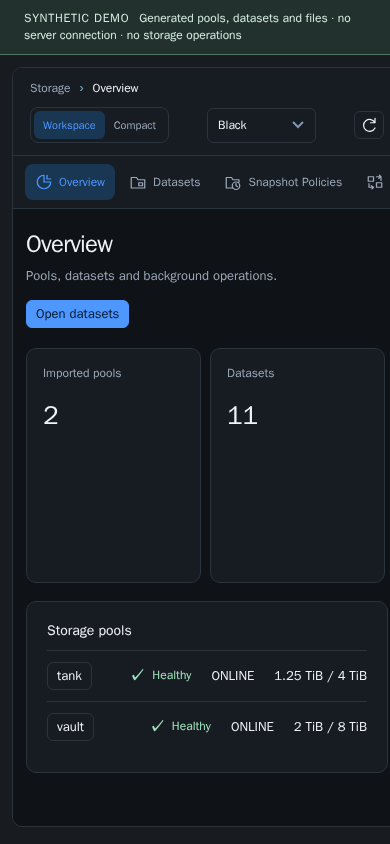
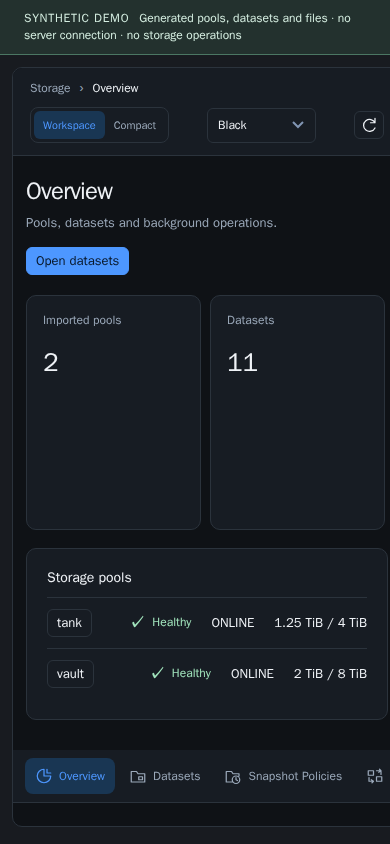
feat: fixed-height plugin frame, grouped dataset information, live resize

diff --git a/src/frontend/ZFSMWorkspace.js b/src/frontend/ZFSMWorkspace.js
@@ -6,6 +6,12 @@ function zfsmCreateWorkspace(options) {
     if(!root)throw new Error('ZFS workspace root is missing');
     const preferenceKey='zfsm-workspace-preferences-v1',cacheKey='zfsm-workspace-inventory-v1';
     const controllers=new Set();
+    // Fixed-height frame: the workspace fills the viewport below its own top edge, so the page itself
+    // does not scroll; each screen scrolls in exactly one place inside the frame.
+    root.dataset.frame='fixed';
+    const sizeFrame=()=>{const style=getComputedStyle(root);root.dataset.wide=String(root.clientWidth-parseFloat(style.paddingLeft||0)-parseFloat(style.paddingRight||0)>850);const top=root.getBoundingClientRect().top+(window.scrollY||0);root.style.setProperty('--zfsm-frame-height',Math.max(520,Math.floor(window.innerHeight-top-32))+'px');};
+    sizeFrame();window.addEventListener('resize',sizeFrame);window.addEventListener('load',sizeFrame);
+    const frameObserver=typeof ResizeObserver==='function'?new ResizeObserver(sizeFrame):null;frameObserver?.observe(document.documentElement);
     // While a modal dialog is open, wheel and touch gestures outside it must not move the page behind it.
     const modalScrollGuard=event=>{
         const dialog=root.querySelector('dialog[open]');if(!dialog)return;
@@ -311,18 +317,32 @@ function zfsmCreateWorkspace(options) {
             render(properties,'loaded');
         }).catch(error=>{if(current())render(null,'unavailable',error.message);});
     }
+    // Dataset information: one short list at a time, grouped into tabs instead of one tall page.
+    let infoGroup='general';
+    const infoGroups=[['general','General',/^(name|type|guid|creation|mountpoint|mounted|origin|canmount|readonly|pool|parent_name|parent_guid|children|snapshot_count)$/],['space','Space',/^(used|available|referenced|usedby|written|logicalused|logicalreferenced|quota|refquota|reservation|refreservation|compressratio|volsize|recordsize|volblocksize|compression|snapshot_limit|filesystem_limit)/],['encryption','Encryption',/^(encryption|keystatus|keylocation|keyformat|pbkdf|encryptionroot|key)/]];
+    function infoGroupOf(key){for(const [id,,pattern] of infoGroups)if(pattern.test(key))return id;return 'other';}
     function renderDatasetInformation(host,item){
         if(item.kind==='directory')return;
         const error=data.errors&&data.errors[pool];if(error)host.append(node('p',error,'zfsm-error'));
         if(!inventoryFresh)host.append(node('p','Cached inventory is stale. Refresh before acting on current state.','zfsm-notice'));
-        const properties=node('dl',undefined,'zfsm-properties');
         const byteKeys=new Set(['used','available','referenced','usedbysnapshots','quota','recordsize','volblocksize','volsize']);
+        const rows=new Map(infoGroups.map(([id])=>[id,[]]));rows.set('other',[]);
         for(const [key,value] of Object.entries(item.node)){
             if(value!==null&&typeof value==='object')continue;if(['_error','_snapshot_error'].includes(key))continue;
             let text=value===null?'—':String(value);if(key==='creation')text=date(value);else if(key==='compressratio')text=Number(value)/100+'x';else if(byteKeys.has(key))text=key==='quota'&&Number(value)===0?'Unlimited':bytes(value);
-            properties.append(node('dt',key),node('dd',text));
+            rows.get(infoGroupOf(key)).push([key,text]);
         }
-        host.append(node('h3','Dataset information'),properties);
+        const present=[...infoGroups.map(([id,label])=>[id,label]),['other','Other']].filter(([id])=>rows.get(id).length);
+        if(!present.some(([id])=>id===infoGroup))infoGroup=present[0]?.[0]||'general';
+        host.append(node('h3','Dataset information'));
+        const list=node('dl',undefined,'zfsm-properties');
+        const draw=()=>{list.replaceChildren();for(const [key,text] of rows.get(infoGroup)||[])list.append(node('dt',key),node('dd',text));};
+        if(present.length>1){
+            const bar=node('nav',undefined,'zfsm-subtabs');bar.setAttribute('aria-label','Dataset information groups');
+            for(const [id,label] of present){const control=button(label+' · '+rows.get(id).length,()=>{infoGroup=id;for(const other of bar.querySelectorAll('button'))other.setAttribute('aria-pressed',String(other.dataset.group===id));draw();},{'data-group':id,'aria-pressed':String(id===infoGroup)});bar.append(control);}
+            host.append(bar);
+        }
+        draw();host.append(list);
     }
     function renderPoolDevices(host){
         host.append(node('h3','Pool devices'),node('p','Pool: '+pool,'zfsm-muted'));
@@ -657,5 +677,5 @@ function zfsmCreateWorkspace(options) {
     if(Number(config.refresh_interval)===0){const cached=storageRead(cacheKey);if(cached&&cached.data&&cached.data.pools&&cached.data.datasets&&cached.data.devices){data=cached.data;inventoryFresh=false;if(!data.pools[pool])pool=Object.keys(data.pools)[0]||'';if(!selected())selection=pool;selectionIdentity=selectionFingerprint();renderPools();renderSection();}}
     inventory.refresh();
     if(protection)protection.availability().catch(()=>{protectionButton.hidden=true;replicationButton.hidden=true;});
-    return {refresh:()=>inventory.refresh(),stop:()=>{if(stopped)return;stopped=true;window.removeEventListener('wheel',modalScrollGuard,true);window.removeEventListener('touchmove',modalScrollGuard,true);protection?.stop();inventory.stop();clearTimeout(jobsTimer);clearTimeout(diagnosticTimer);invalidateForm();disposeSnapshots();disposeExplorer();themeObserver.disconnect();media.removeEventListener('change',themeListener);for(const controller of controllers)controller.abort();controllers.clear();},getState:()=>({section,tab,pool,selection,layout,theme})};
+    return {refresh:()=>inventory.refresh(),stop:()=>{if(stopped)return;stopped=true;window.removeEventListener('resize',sizeFrame);window.removeEventListener('load',sizeFrame);frameObserver?.disconnect();window.removeEventListener('wheel',modalScrollGuard,true);window.removeEventListener('touchmove',modalScrollGuard,true);protection?.stop();inventory.stop();clearTimeout(jobsTimer);clearTimeout(diagnosticTimer);invalidateForm();disposeSnapshots();disposeExplorer();themeObserver.disconnect();media.removeEventListener('change',themeListener);for(const controller of controllers)controller.abort();controllers.clear();},getState:()=>({section,tab,pool,selection,layout,theme})};
 }

diff --git a/src/frontend/ZFSMWorkspace.css b/src/frontend/ZFSMWorkspace.css
@@ -493,3 +493,32 @@ html:has(#zfsm-workspace dialog[open]), html:has(#zfsm-workspace dialog[open]) b
 #zfsm-workspace .zfsm-checklist-row input {margin-top:3px}
 #zfsm-workspace .zfsm-checklist-missing {border:1px dashed var(--zfsm-border,#444);border-radius:6px;padding:4px 8px}
 #zfsm-workspace .zfsm-checklist-missing p,#zfsm-workspace .zfsm-checklist-empty {margin:4px 0;font-size:12px;opacity:.8}
+
+/* Fixed-height frame (set by the workspace script): the page does not scroll, each screen scrolls in one place. */
+#zfsm-workspace[data-frame="fixed"] {position:relative;height:var(--zfsm-frame-height,auto);overflow:hidden;display:flex;flex-direction:column}
+#zfsm-workspace[data-frame="fixed"]>.zfsm-shell {flex:1 1 auto;min-height:0}
+#zfsm-workspace[data-frame="fixed"] .zfsm-sidebar {overflow-y:auto;overscroll-behavior:contain}
+#zfsm-workspace[data-frame="fixed"] .zfsm-main {display:flex;flex-direction:column;min-height:0}
+#zfsm-workspace[data-frame="fixed"] .zfsm-header {flex:0 0 auto}
+#zfsm-workspace[data-frame="fixed"] .zfsm-main-body {position:relative;flex:1 1 auto;min-height:0;width:100%;overflow:auto;overscroll-behavior:contain}
+#zfsm-workspace[data-frame="fixed"][data-layout="table"] .zfsm-browser {max-height:none;overflow:visible}
+#zfsm-workspace[data-frame="fixed"][data-layout="table"] .zfsm-detail {max-height:none;overflow:visible}
+#zfsm-workspace[data-frame="fixed"]:not([data-wide="true"]) .zfsm-browser {max-height:none;overflow:visible}
+@container(max-width:850px) {
+  #zfsm-workspace[data-frame="fixed"] .zfsm-shell {grid-template-rows:auto auto minmax(0,1fr);min-height:0}
+  #zfsm-workspace[data-frame="fixed"] .zfsm-main-body {min-height:0}
+}
+/* Datasets: the tree and the detail pane scroll on their own, the tab bar and the pane heading stay put. */
+/* Wide layout only: data-wide is set by the workspace script (container queries cannot reach inside .zfsm-detail, itself a container). */
+#zfsm-workspace[data-frame="fixed"][data-wide="true"]:not([data-layout="table"]) .zfsm-main-body:has(>.zfsm-content>.zfsm-workarea) {overflow:hidden;display:flex;flex-direction:column;padding-bottom:18px}
+#zfsm-workspace[data-frame="fixed"][data-wide="true"]:not([data-layout="table"]) .zfsm-content:has(>.zfsm-workarea) {flex:1 1 auto;min-height:0;display:flex;flex-direction:column}
+#zfsm-workspace[data-frame="fixed"][data-wide="true"]:not([data-layout="table"]) .zfsm-content:has(>.zfsm-workarea)>* {flex:0 0 auto}
+#zfsm-workspace[data-frame="fixed"][data-wide="true"]:not([data-layout="table"]) .zfsm-content>.zfsm-workarea {flex:1 1 auto;min-height:0;align-items:stretch}
+#zfsm-workspace[data-frame="fixed"][data-wide="true"]:not([data-layout="table"]) .zfsm-workarea>.zfsm-browser {max-height:none;height:100%;min-height:0;overflow:auto;overscroll-behavior:contain}
+#zfsm-workspace[data-frame="fixed"][data-wide="true"]:not([data-layout="table"]) .zfsm-workarea>.zfsm-detail,
+#zfsm-workspace[data-frame="fixed"][data-wide="true"]:not([data-layout="table"]) .zfsm-workarea[data-pool-view="true"]>.zfsm-detail {max-height:none;height:100%;min-height:0;overflow:hidden;display:flex;flex-direction:column}
+#zfsm-workspace[data-frame="fixed"][data-wide="true"]:not([data-layout="table"]) .zfsm-detail>.zfsm-detail-heading {flex:0 0 auto}
+#zfsm-workspace[data-frame="fixed"][data-wide="true"]:not([data-layout="table"]) .zfsm-detail>:last-child {flex:1 1 auto;min-height:0;overflow:auto;overscroll-behavior:contain}
+/* Dataset information groups. */
+#zfsm-workspace .zfsm-subtabs {display:flex;flex-wrap:wrap;gap:6px;margin:0 0 10px}
+
